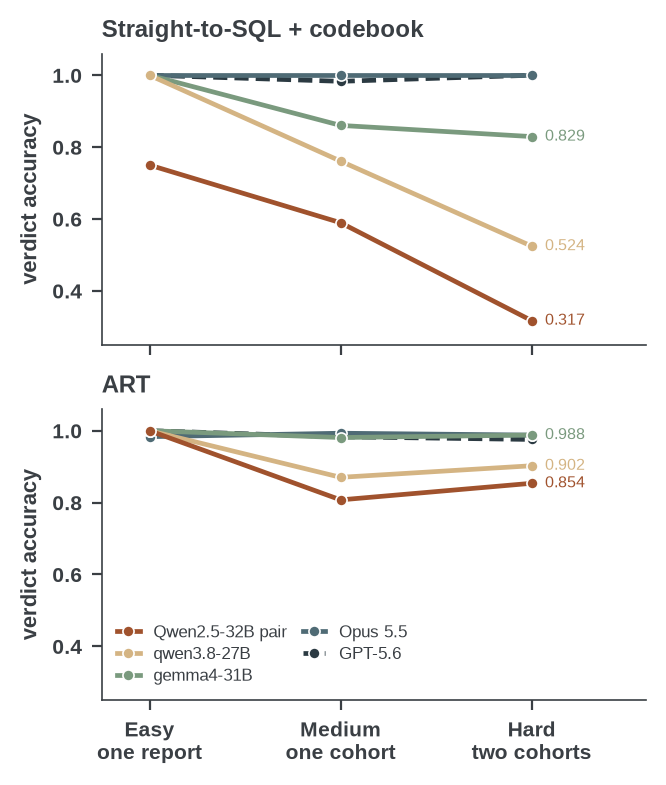
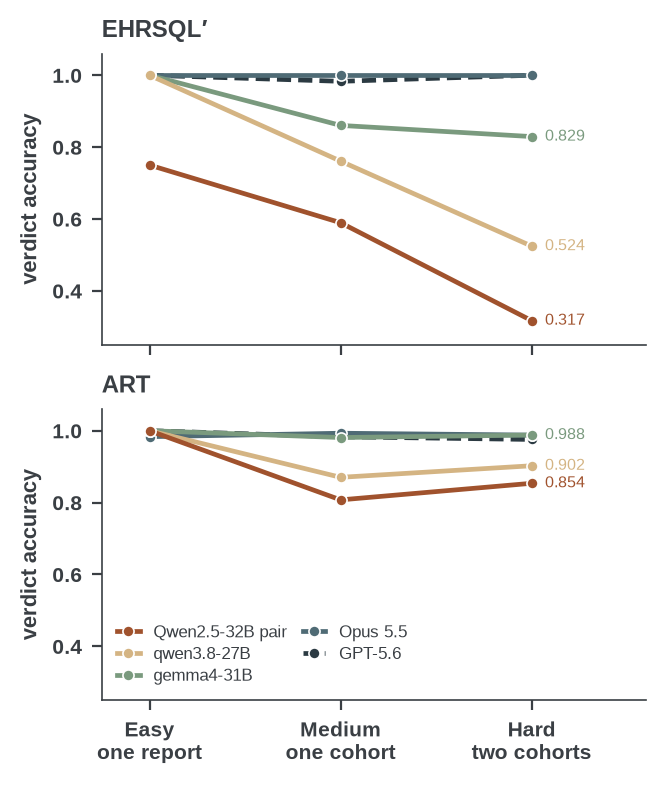
Table rows EHRSQL / EHRSQL'; stage baselines block (CoT, OmniSQL, XiYanSQL, StatQA against ART's own stage); ablation removes the exact test (model verdict); settings only in Baselines; CoT, OmniSQL, XiYanSQL cited

Changed region(s): [[0.1502, 0.0, 0.6306, 0.0611]]

diff --git a/docs/draft/body.tex b/docs/draft/body.tex
@@ -590,8 +590,8 @@ the same 1{,}500 claims, database and codebook text. \emph{EHRSQL}
 \cite{lee2022ehrsql} is the single-query text-to-SQL protocol over our
 schema, which we call Straight-to-SQL in the text: one prompt per claim to
 the SQL model, carrying the schema as a column listing and the row contract
-(one row per report with denominator, numerator and excluded flags), with or
-without the codebook (\emph{EHRSQL + codebook}); the query runs in the
+(one row per report with denominator, numerator and excluded flags);
+\emph{EHRSQL$'$} adds the codebook to the same prompt. The query runs in the
 read-only sandbox and the harness runs the exact test, so these rows differ
 from our pipeline only in having no plan, no contract and no repair.
 \emph{EHRAgent} \cite{shi2024ehragent} runs the authors' code over the same
@@ -609,18 +609,26 @@ data description; each phase is capped at ten minutes, and at nine minutes
 per claim it is run with the Coder on a stratified 204-claim subsample
 (Appendix~\ref{app:subsample}).
 
-The ablations isolate parts of \art{}. \emph{Articulate alone} fills the plan
-with the model (one repair round) and retrieval and test with gold;
-\emph{Retrieve alone} hands the model the gold plan already resolved into its
-contract (two repair rounds) and runs the exact test on its counts.
-\emph{Test alone} runs the exact test on the gold counts; the Test stage is
-a deterministic function the harness calls, not a tool the model chooses to
-call, so it reproduces every label. \emph{StatQA} \cite{zhu2024statqa}
-replaces it with its protocol, adapted to the Test stage only: given the
-counts, the claim and the test definitions, the model chooses the applicable
-test and returns the verdict. It is run on the gold counts, and on the
-pipeline's own counts, where it differs from \art{} only in the Test stage. \emph{\art{} $-$ verifier} removes the repair loops;
-everywhere else \art{} includes the verifier.
+\emph{Stage baselines} compare each stage of \art{} with an established
+method for that step, the other stages set to gold. For Articulate, the
+same model plans with chain-of-thought prompting \cite{wei2022cot}: it
+writes its reasoning before the plan fields. For Retrieve, two open
+text-to-SQL models fine-tuned from the same Qwen2.5-Coder-32B base as our
+2024 SQL model, OmniSQL \cite{li2025omnisql} and XiYanSQL
+\cite{gao2025xiyansql}, write the SQL from the gold plan under the same
+contract. For Test, StatQA's protocol \cite{zhu2024statqa} hands the model
+the gold counts, the claim and the test definitions and asks it to choose
+the applicable test and return the verdict. The corresponding rows for
+\art{} fill the same stage with its own component: Articulate and Retrieve
+with the model under the contract (one and two repair rounds), Test with the
+exact test, a deterministic function the harness calls rather than a tool
+the model chooses to call, which therefore reproduces every label.
+
+The \emph{ablations} remove one part of \art{} at a time: the verifier's
+repair loops; the exact test, replaced by the model's own verdict from the
+pipeline's counts; and the contract, the plan handed to S2 as prose with the
+codebook. Removing both the plan and the contract leaves EHRSQL$'$; everywhere
+else \art{} includes the verifier.
 Chance on the three-class cohort
 tiers is $\approx 0.33$; a per-group majority guesser scores at most 0.37.
 
@@ -688,20 +696,23 @@ test set, 1{,}500 cohort claims & Qwen2.5-32B pair & qwen3.8-27B & gemma4-31B & 
  & \multicolumn{5}{c}{\textit{verdict accuracy \,(macro precision / recall / F1)}} \\
 \midrule
 \multicolumn{6}{@{}l}{\textit{baselines}} \\
-EHRSQL, schema only & 0.529\,{\scriptsize(0.555/0.528/0.518)} & 0.587\,{\scriptsize(0.605/0.587/0.582)} & 0.635\,{\scriptsize(0.647/0.634/0.629)} & 0.878\,{\scriptsize(0.882/0.878/0.878)} & 0.876\,{\scriptsize(0.877/0.876/0.876)} \\
-EHRSQL + codebook & 0.575\,{\scriptsize(0.604/0.574/0.570)} & 0.748\,{\scriptsize(0.764/0.747/0.748)} & 0.859\,{\scriptsize(0.885/0.858/0.861)} & 1.000\,{\scriptsize(1.000/1.000/1.000)} & 0.984\,{\scriptsize(0.984/0.984/0.984)} \\
+EHRSQL & 0.529\,{\scriptsize(0.555/0.528/0.518)} & 0.587\,{\scriptsize(0.605/0.587/0.582)} & 0.635\,{\scriptsize(0.647/0.634/0.629)} & 0.878\,{\scriptsize(0.882/0.878/0.878)} & 0.876\,{\scriptsize(0.877/0.876/0.876)} \\
+EHRSQL$'$ & 0.575\,{\scriptsize(0.604/0.574/0.570)} & 0.748\,{\scriptsize(0.764/0.747/0.748)} & 0.859\,{\scriptsize(0.885/0.858/0.861)} & 1.000\,{\scriptsize(1.000/1.000/1.000)} & 0.984\,{\scriptsize(0.984/0.984/0.984)} \\
 EHRAgent & 0.605\,{\scriptsize(0.694/0.606/0.600)} & 0.839\,{\scriptsize(0.863/0.839/0.843)} & --- & --- & 0.792\,{\scriptsize(0.808/0.792/0.794)} \\
 VERITAS$^\dagger$ & 0.402\,{\scriptsize(0.501/0.402/0.335)} & --- & --- & --- & --- \\
 \midrule
-\multicolumn{6}{@{}l}{\textit{stage ceilings (other stages at gold)}} \\
-Articulate alone & 0.953\,{\scriptsize(0.985/0.953/0.969)} & 0.917\,{\scriptsize(0.942/0.917/0.928)} & 0.992\,{\scriptsize(0.992/0.992/0.992)} & 0.993\,{\scriptsize(0.993/0.993/0.993)} & 0.993\,{\scriptsize(0.993/0.993/0.993)} \\
-Retrieve alone & 0.836\,{\scriptsize(0.879/0.835/0.840)} & 0.944\,{\scriptsize(0.945/0.944/0.944)} & 0.989\,{\scriptsize(0.990/0.989/0.989)} & $\geq$0.999 & $\geq$0.999 \\
-Test alone (exact test) & 1.000 & 1.000 & 1.000 & 1.000 & 1.000 \\
-\quad StatQA (Test stage only) & 0.611\,{\scriptsize(0.706/0.609/0.575)} & 0.619\,{\scriptsize(0.784/0.617/0.539)} & 0.777\,{\scriptsize(0.816/0.776/0.776)} & 0.999\,{\scriptsize(0.999/0.999/0.999)} & 0.999\,{\scriptsize(0.999/0.999/0.999)} \\
+\multicolumn{6}{@{}l}{\textit{stage baselines (other stages at gold)}} \\
+Articulate: \art{} & 0.953\,{\scriptsize(0.985/0.953/0.969)} & 0.917\,{\scriptsize(0.942/0.917/0.928)} & 0.992\,{\scriptsize(0.992/0.992/0.992)} & 0.993\,{\scriptsize(0.993/0.993/0.993)} & 0.993\,{\scriptsize(0.993/0.993/0.993)} \\
+\quad chain-of-thought & \pend{running} & \pend{running} & \pend{running} & --- & --- \\
+Retrieve: \art{} & 0.836\,{\scriptsize(0.879/0.835/0.840)} & 0.944\,{\scriptsize(0.945/0.944/0.944)} & 0.989\,{\scriptsize(0.990/0.989/0.989)} & $\geq$0.999 & $\geq$0.999 \\
+\quad OmniSQL-32B$^\ddagger$ & \pend{running} & --- & --- & --- & --- \\
+\quad XiYanSQL-32B$^\ddagger$ & \pend{running} & --- & --- & --- & --- \\
+Test: \art{} (exact test) & 1.000 & 1.000 & 1.000 & 1.000 & 1.000 \\
+\quad StatQA & 0.611\,{\scriptsize(0.706/0.609/0.575)} & 0.619\,{\scriptsize(0.784/0.617/0.539)} & 0.777\,{\scriptsize(0.816/0.776/0.776)} & 0.999\,{\scriptsize(0.999/0.999/0.999)} & 0.999\,{\scriptsize(0.999/0.999/0.999)} \\
 \midrule
 \multicolumn{6}{@{}l}{\textit{ablations of \art{}}} \\
 \quad $-$ verifier & 0.761\,{\scriptsize(0.845/0.760/0.777)} & 0.735\,{\scriptsize(0.815/0.734/0.744)} & 0.844\,{\scriptsize(0.886/0.843/0.848)} & 0.999\,{\scriptsize(0.999/0.999/0.999)} & 0.999\,{\scriptsize(0.999/0.999/0.999)} \\
-\quad Test by StatQA & 0.512\,{\scriptsize(0.651/0.510/0.482)} & 0.568\,{\scriptsize(0.612/0.566/0.503)} & 0.770\,{\scriptsize(0.809/0.769/0.769)} & --- & --- \\
+\quad $-$ exact test (model verdict) & 0.512\,{\scriptsize(0.651/0.510/0.482)} & 0.568\,{\scriptsize(0.612/0.566/0.503)} & 0.770\,{\scriptsize(0.809/0.769/0.769)} & --- & --- \\
 \quad $-$ contract (plan as prose) & \pend{running} & \pend{running} & \pend{running} & --- & --- \\
 \midrule
 \multicolumn{6}{@{}l}{\textit{ours}} \\
@@ -711,11 +722,9 @@ Test alone (exact test) & 1.000 & 1.000 & 1.000 & 1.000 & 1.000 \\
 \caption{Main results on the test set: verdict accuracy, then macro
 precision / recall / F1 over the three verdict classes; only the model
 changes across columns. Intervals on accuracy are $\pm 0.02$ (0.6--0.9) and
-$\pm 0.01$ (above 0.98). Stage ceilings fill one stage and set the others
-to gold; Test alone is the exact test on the gold counts, which reproduces
-every label, and StatQA hands the same counts to the model. Each ablation
-removes one part of \art{}; removing both the plan and the contract gives
-EHRSQL + codebook. $^\dagger$VERITAS is run with the Coder on a stratified
+$\pm 0.01$ (above 0.98). Systems and settings are described in
+\S\ref{sec:baselines}. $^\ddagger$Fine-tuned from Qwen2.5-Coder-32B, so
+listed under the 2024 pair. $^\dagger$VERITAS is run with the Coder on a stratified
 204-claim subsample (Appendix~\ref{app:subsample}); a dash marks a run not
 made.}
 \label{tab:main}
@@ -895,7 +904,7 @@ Straight-to-SQL control with the 2024 Coder is right on 57\% of claims and
 right for the right reason on only 40\% of those: it admits same-stage
 reports into order denominators, defines the eligible set as the supporting
 set, and narrows presence splits to co-occurrence
-(Table~\ref{tab:attribution}). The StatQA rows show the same
+(Table~\ref{tab:attribution}). The StatQA row shows the same
 thing from the other side: handed the exact counts, the open models still
 return the wrong verdict on a quarter to a third of claims, so a correct
 verdict from them is not evidence of a correct computation. VERITAS's nine
@@ -957,7 +966,7 @@ contract.}
 \end{figure*}
 \fi
 
-\paragraph{Stage ceilings and the test stage.} The stage ceilings in
+\paragraph{Stage ceilings and the test stage.} The stage rows in
 Table~\ref{tab:main} fill one stage at a time with the model and leaves the
 others at gold, so each row is the loss attributable to that stage alone.
 Planning is nearly solved by every model: with the mapping withheld and the
@@ -969,11 +978,11 @@ already failing. The 2026 models retrieve well with the gold plan, so their
 remaining loss is the plan, and gemma4 under \art{} sits within 0.01 of
 both its ceilings. The test stage is a function the open models cannot
 compute: under the StatQA protocol on the exact counts the open models are
-wrong on a quarter to a third of claims, and the same protocol on the
-pipeline's own counts loses 0.2 to 0.3.
+wrong on a quarter to a third of claims, and replacing the exact test with
+the model's verdict on the pipeline's own counts loses 0.2 to 0.3.
 
 \paragraph{Prose versus contract.} The hand-off between S1 and S2 is what the
-ceiling rows cannot see, because Retrieve alone receives the gold plan already
+stage rows cannot see, because Retrieve receives the gold plan already
 resolved. On the development set the same composed plan handed to S2 as
 prose with the codebook scores below the verified Straight-to-SQL model even
 after two repair rounds, while resolving the plan's named primitive into its
@@ -1042,9 +1051,9 @@ that do not.
 \toprule
 180 single-report claims & Qwen2.5 pair & qwen3.8 & gemma4 & Opus 5.5 & GPT-5.6 \\
 \midrule
-EHRSQL, schema only & 0.433 & 0.989 & 0.744 & --- & --- \\
-EHRSQL + codebook & 0.750 & 1.000 & 1.000 & 1.000 & 1.000 \\
-Articulate alone & 1.000 & 1.000 & 1.000 & --- & --- \\
+EHRSQL & 0.433 & 0.989 & 0.744 & --- & --- \\
+EHRSQL$'$ & 0.750 & 1.000 & 1.000 & 1.000 & 1.000 \\
+Articulate: \art{} (Retrieve, Test at gold) & 1.000 & 1.000 & 1.000 & --- & --- \\
 \art{} & 1.000 & 1.000 & 1.000 & 0.983 & 1.000 \\
 \bottomrule
 \end{tabular}
@@ -1112,7 +1121,7 @@ run; the other registers rerun the same 1{,}500 claims.}
 \cmidrule(lr){2-5}\cmidrule(lr){6-6}\cmidrule(lr){7-12}\cmidrule(lr){13-13}
 test set & all & \shortstack[c]{gold\\not-locatable} & \shortstack[c]{gold\\sparse} & \shortstack[c]{gold\\underpowered} & \shortstack[c]{with the right\\sub-type} & all & \shortstack[c]{query\\rejected} & \shortstack[c]{denominator\\empty} & \shortstack[c]{below\\the floor} & \shortstack[c]{wrong\\denominator} & \shortstack[c]{gold\\denominator} & \shortstack[c]{(no\\answer)} \\
 \midrule
-\multicolumn{13}{@{}l}{\textit{EHRSQL + codebook}} \\
+\multicolumn{13}{@{}l}{\textit{EHRSQL$'$}} \\
 \quad Qwen2.5-32B pair & 0.234 & 0.131 & 0.134 & 0.430 & 0.791 & 0.388 & 0.017 & 0.026 & 0.108 & 0.204 & 0.033 & 0.000 \\
 \quad qwen3.8-27B & 0.141 & 0.080 & 0.083 & 0.256 & 0.855 & 0.224 & 0.050 & 0.016 & 0.085 & 0.066 & 0.006 & 0.000 \\
 \quad gemma4-31B & 0.036 & 0.040 & 0.013 & 0.052 & 0.893 & 0.182 & 0.098 & 0.001 & 0.043 & 0.039 & 0.000 & 0.000 \\

diff --git a/docs/draft/appendix.tex b/docs/draft/appendix.tex
@@ -296,7 +296,7 @@ VERITAS + codebook, our tests (Coder-32B) & --- & 0.402 [0.333, 0.471] \\
 EHRAgent, own test (Coder-32B) & 0.605 [0.579, 0.629] & 0.559 [0.490, 0.623] \\
 EHRAgent, own test (qwen3.8-27B) & 0.839 [0.820, 0.857] & 0.868 [0.819, 0.912] \\
 EHRAgent, own test (GPT-5.6) & 0.792 [0.771, 0.812] & 0.784 [0.730, 0.838] \\
-B: Straight-to-SQL + codebook (Coder-32B) & 0.575 [0.549, 0.599] & 0.593 [0.525, 0.662] \\
+EHRSQL$'$ (Coder-32B) & 0.575 [0.549, 0.599] & 0.593 [0.525, 0.662] \\
 D$'$ + verifier (Qwen2.5-32B pair) & 0.810 [0.791, 0.830] & 0.804 [0.750, 0.858] \\
 D$'$ + verifier (qwen3.8-27B) & 0.872 [0.855, 0.889] & 0.887 [0.843, 0.931] \\
 D$'$ + verifier (gemma4-31B) & 0.981 [0.974, 0.988] & 0.980 [0.961, 0.995] \\

diff --git a/scripts/paper_figures.py b/scripts/paper_figures.py
@@ -383,7 +383,7 @@ def fig_tiers():
     cols = MODEL_COLORS
     levels = ["Easy\none report", "Medium\none cohort", "Hard\ntwo cohorts"]
     fig, axes = plt.subplots(2, 1, figsize=(3.4, 4.0), sharex=True)
-    for ax, suf, title in ((axes[0], "cellB", "Straight-to-SQL + codebook"), (axes[1], "dprime_verify2", "ART")):
+    for ax, suf, title in ((axes[0], "cellB", "EHRSQL′"), (axes[1], "dprime_verify2", "ART")):
         x = np.arange(3)
         for j, (key, label) in enumerate(TC.MODELS):
             y = TC.tier_acc(key, suf)
